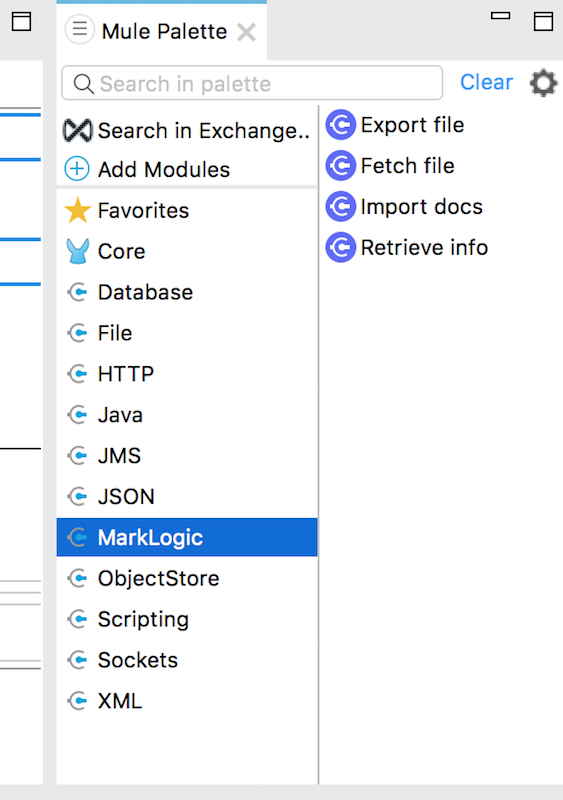
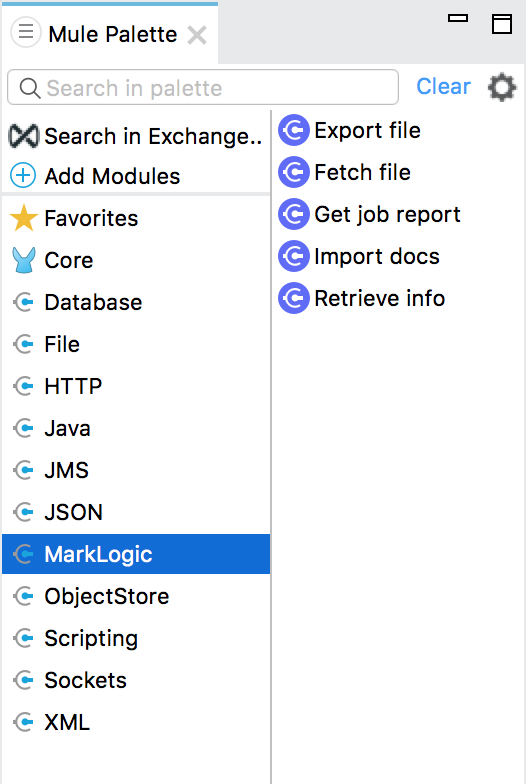
Clay: updating README

Changed region(s): [[0.0, 0.0, 1.0, 1.0], [0.0, 0.0, 0.4867, 0.0612], [0.8517, 0.0, 0.9125, 0.0306]]

diff --git a/README.md b/README.md
@@ -11,7 +11,7 @@ The project aims to provide the Mulesoft community of users (known as <a href="h
 
 Despite the graphical design nature of flows in AnypointStudio, under the covers, each flow in Mule is simply an XML file defining the workflow.  If one chooses, flow authoring can be done entirely in XML, even within AnypointStudio.
 
-Similar to the recently-developed MarkLogic NiFi Connector, the Mulesoft Connector is buit atop the MarkLogic Data Movement SDK, used to do all work with MarkLogic.  
+Similar to the recently-developed MarkLogic NiFi Connector, the Mulesoft Connector is buit atop the MarkLogic Data Movement SDK (DMSDK), used to do all work with MarkLogic.  
 
 This Connector demo is built on Mule 4.1 SDK and AnypointStudio 7.1.  
   
@@ -60,11 +60,15 @@ There is a simple test of static JSON content for each defined operation.
 Current operations include:
 
 * importDocs
-  *  Used by Mule flows to ingest JSON, XML, text, or binary content into MarkLogic.
+  *  Used by Mule flows to ingest JSON, XML, text, or binary content into MarkLogic. Returns a DMSDK jobID.
+* getJobReport
+  * Use the output jobID from importDocs to return JSON object that reports the current job ID status.  At the end of the batch, this will return a JSON object based on the contents of a <a href="https://docs.marklogic.com/javadoc/client/com/marklogic/client/datamovement/JobReport.html">DMSDK JobReport</a>.  Prior to the end of the batch, the JSON object report simply echoes the jobID.
 * fetchFile
-  *  Used by Mule flows to export content from MarkLogic, based on document or collection URIs, or serialized queries.
+  *  Used by Mule flows to export content from MarkLogic, based on document or collection URIs, or serialized queries.  Returns file content to be processed downstream by Mule components, such as Mule's File Write operation, to save to the filesystem.
 * retrieveInfo
   *  Simply echoes back Mule to MarkLogic connection information.
+
+For each operation in the project, there are <a href="examples/">example flows</a> with documentation included.  Also included is a guide on how to build your first empty flow.
 
   
   
@@ -115,7 +119,17 @@ After the repository is added, use the "Add Maven Dependency" approach as descri
 </dependency>
 ``` 
 
-  
+In order to run the <a href="examples/importDocs">example importDocs flows</a>, which containg functionality that retrieves data from a MySQL database, you must add a dependency for MySQL:
+
+```
+<dependency>
+   <groupId>mysql</groupId>
+   <artifactId>mysql-connector-java</artifactId>
+   <version>5.1.44</version>
+</dependency>
+```
+
+<img src="images/mule-sql-dependency.png" alt="Add SQL Maven Dependency"></img>
   
 ## Configuring and Using the Connector ##
 --------------------------------
@@ -127,7 +141,6 @@ Once the Connector dependency is added, it should show up in the Mule Pallet at 
 
 Operations listed at right can then be clicked and dragged to the visual flow designer for integration with other components and connectors.  Once placed on the designer view, click the icon of the operation you selected, and begin configuring it on the tab below.
 
-There are <a href="examples/">example flows</a> included in the project, for each operation, plus a guide on how to build your first empty flow.
 
 ### MarkLogic Connection Parameters ###
 
